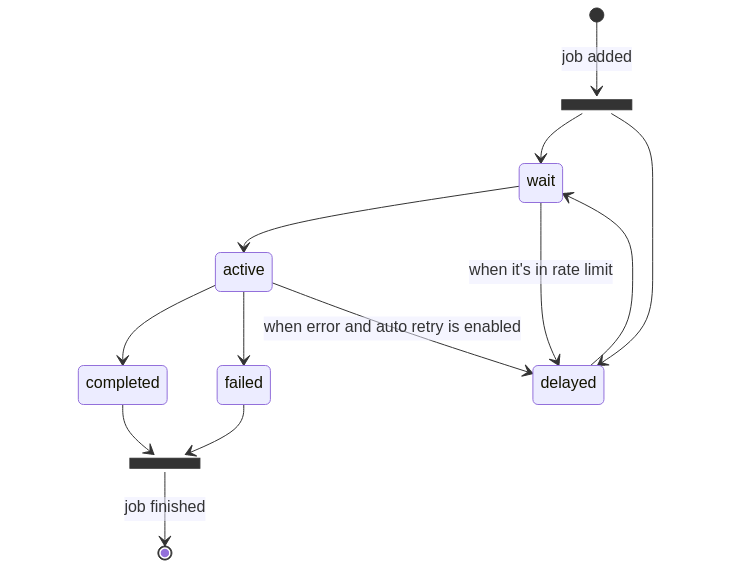
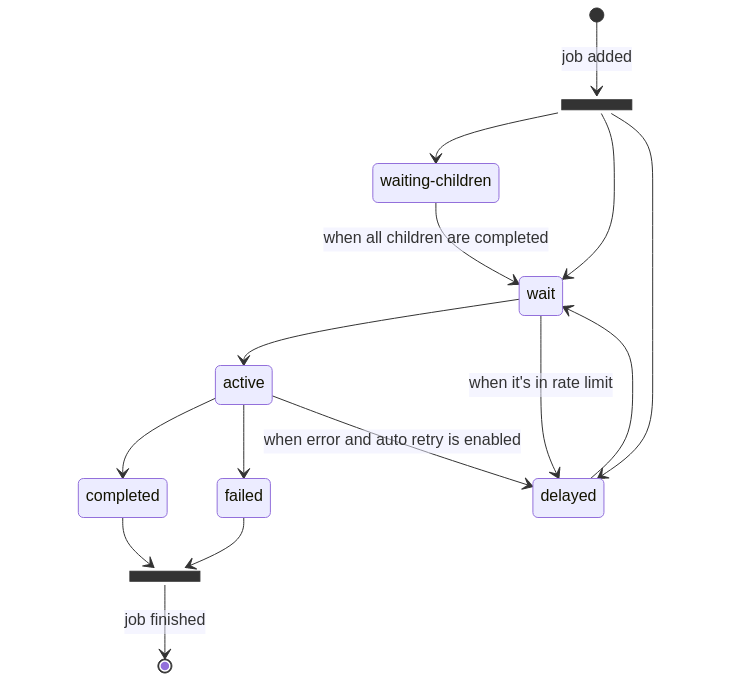
GitBook: [#128] update architecture images

diff --git a/docs/gitbook/guide/architecture.md b/docs/gitbook/guide/architecture.md
@@ -8,27 +8,7 @@ description: >-
 
 In order to use the full potential of Bull queues, it is important to understand the lifecycle of a job. From the moment a producer calls the [`add`](https://api.docs.bullmq.io/classes/Queue.html#add) method on a queue instance, a job enters a lifecycle where it will be in different states, until its completion or failure (although technically a failed job could be retried and get a new lifecycle).
 
-![Lifecycle of a job - Queue](<../.gitbook/assets/architecture (1).png>)
-
-<!--
-```mermaid
-stateDiagram-v2
-state ja <<fork>>
-state jf <<fork>>
-    [*] - -> ja : job added
-    ja - -> wait
-    ja - -> delayed
-    wait - -> active
-    wait - -> delayed : when it's in rate limit
-    delayed - -> wait
-    active - -> completed
-    active - -> failed
-    completed - -> jf
-    failed - -> jf
-    active - -> delayed : when error and auto retry is enabled
-    jf - -> [*] : job finished
-```
--->
+![Lifecycle of a job - Queue](../.gitbook/assets/architecture.png)
 
 When a job is added to a queue it can be in one of two states, it can either be in the “wait” status, which is, in fact, a waiting list, where all jobs must enter before they can be processed, or it can be in a “delayed” status: a delayed status implies that the job is waiting for some timeout or to be promoted for being processed, however, a delayed job will not be processed directly, instead it will be placed at the beginning of the waiting list and processed as soon as a worker is idle.
 
@@ -36,28 +16,6 @@ The next state for a job is the “active” state. The active state is represen
 
 Another way to add a job is by the [`add`](https://api.docs.bullmq.io/classes/FlowProducer.html#add) method on a flow producer instance.
 
-![Lifecycle of a job - Flow Producer](../.gitbook/assets/flow-architecture.png)
-
-<!--
-```mermaid
-stateDiagram-v2
-state "waiting-children" as wc
-state ja <<fork>>
-state jf <<fork>>
-    [*] - -> ja : job added
-    ja - -> wc
-    ja - -> wait : when there aren't children
-    wc - -> wait : when all children are completed
-    wait - -> active
-    wait - -> delayed : when it's in rate limit
-    delayed - -> wait
-    active - -> completed
-    active - -> failed
-    completed - -> jf
-    failed - -> jf
-    active - -> delayed : when error and auto retry is enabled
-    jf - -> [*] : job finished
-```
--->
+![Lifecycle of a job - Flow Producer](<../.gitbook/assets/flow-architecture (1).png>)
 
 When a job is added by a flow producer, it can be in one of two states, it can either be in the “wait” status, when there aren't children, or it can be in a “waiting-children” status: a waiting-children status implies that the job is waiting for all its children to be completed, however, a waiting-children job will not be processed directly, instead it will be placed at the waiting list and processed as soon as the last child is marked as completed.
